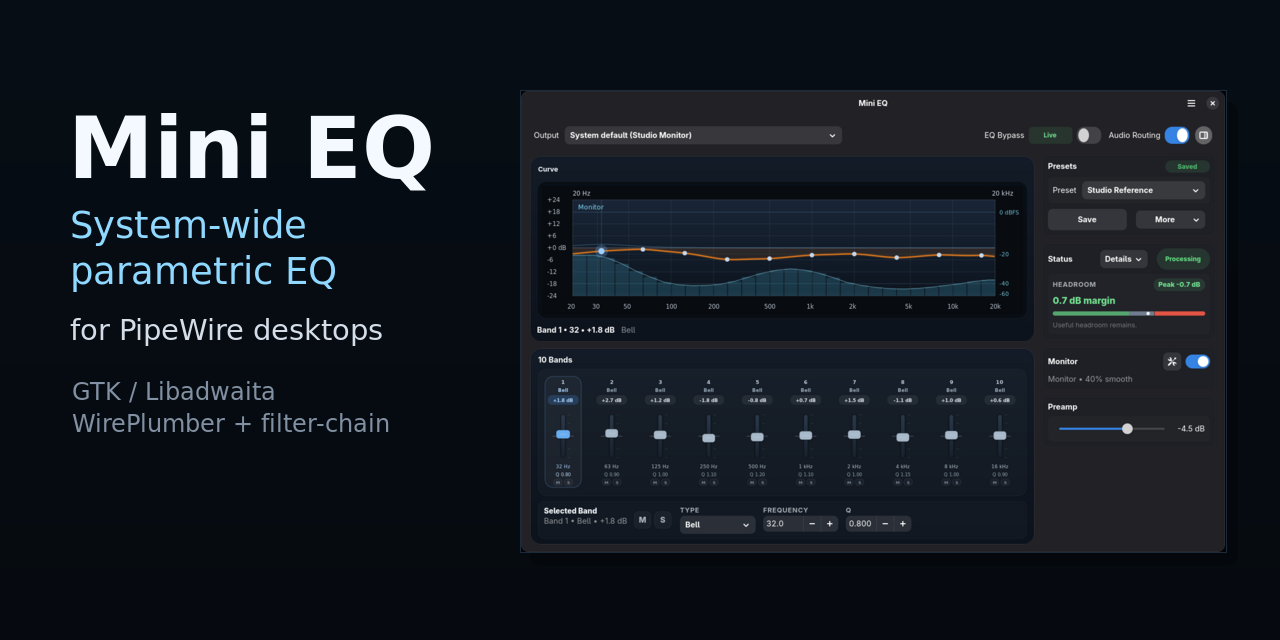
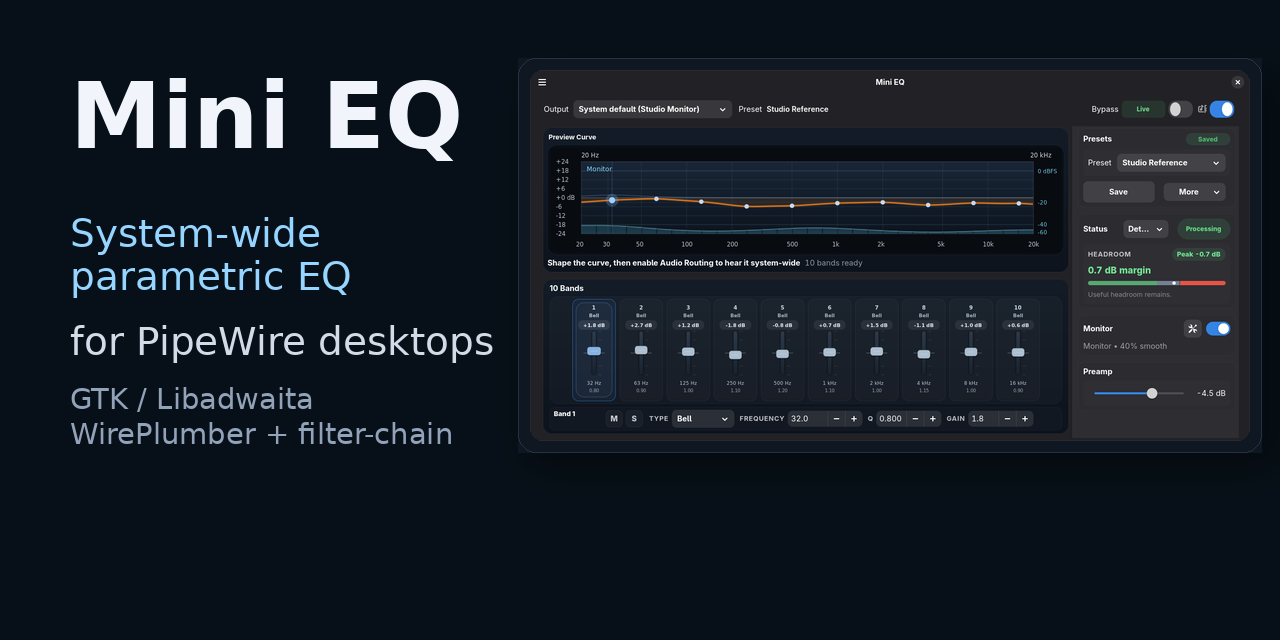
Add social preview rendering tool and update README instructions

diff --git a/tools/render_social_preview.py b/tools/render_social_preview.py
@@ -1,0 +1,129 @@
+from __future__ import annotations
+
+import argparse
+import shutil
+import subprocess
+from pathlib import Path
+
+from PIL import Image, ImageDraw, ImageFilter, ImageFont
+
+CANVAS_SIZE = (1280, 640)
+BACKGROUND = "#071018"
+TITLE = "Mini EQ"
+SUBTITLE_LINES = (
+    "System-wide",
+    "parametric EQ",
+    "for PipeWire desktops",
+)
+FOOTER_LINES = (
+    "GTK / Libadwaita",
+    "WirePlumber + filter-chain",
+)
+
+
+def _font_path(preferred: str) -> str | None:
+    fc_match = shutil.which("fc-match")
+    if fc_match is not None:
+        result = subprocess.run(
+            [fc_match, "-f", "%{file}\n", preferred],
+            check=False,
+            capture_output=True,
+            text=True,
+        )
+        path = result.stdout.strip()
+        if path:
+            return path
+
+    common = (
+        "/usr/share/fonts/truetype/dejavu/DejaVuSans.ttf",
+        "/usr/share/fonts/truetype/dejavu/DejaVuSans-Bold.ttf",
+    )
+    for candidate in common:
+        if Path(candidate).exists():
+            return candidate
+    return None
+
+
+def _load_font(size: int, *, bold: bool = False) -> ImageFont.FreeTypeFont | ImageFont.ImageFont:
+    family = "DejaVu Sans:style=Bold" if bold else "DejaVu Sans"
+    path = _font_path(family)
+    if path is None:
+        return ImageFont.load_default()
+    return ImageFont.truetype(path, size=size)
+
+
+def _fit_screenshot(image: Image.Image, max_size: tuple[int, int]) -> Image.Image:
+    fitted = image.copy()
+    fitted.thumbnail(max_size, Image.Resampling.LANCZOS)
+    return fitted
+
+
+def render_social_preview(screenshot_path: Path, output_path: Path) -> None:
+    canvas = Image.new("RGBA", CANVAS_SIZE, BACKGROUND)
+    draw = ImageDraw.Draw(canvas)
+
+    title_font = _load_font(92, bold=True)
+    subtitle_font = _load_font(39)
+    footer_font = _load_font(29)
+
+    draw.text((70, 62), TITLE, font=title_font, fill="#F1F5FB")
+    draw.text((70, 210), "\n".join(SUBTITLE_LINES[:2]), font=subtitle_font, spacing=6, fill="#95D5FF")
+    draw.text((70, 318), SUBTITLE_LINES[2], font=subtitle_font, fill="#D4DBE8")
+    draw.text((70, 382), "\n".join(FOOTER_LINES), font=footer_font, spacing=8, fill="#92A2B9")
+
+    screenshot = Image.open(screenshot_path).convert("RGBA")
+    screenshot = _fit_screenshot(screenshot, (720, 420))
+
+    frame_padding = 12
+    frame_size = (
+        screenshot.width + frame_padding * 2,
+        screenshot.height + frame_padding * 2,
+    )
+    frame_pos = (518, 58)
+    shadow_offset = (10, 14)
+
+    shadow = Image.new("RGBA", CANVAS_SIZE, (0, 0, 0, 0))
+    shadow_draw = ImageDraw.Draw(shadow)
+    shadow_draw.rounded_rectangle(
+        (
+            frame_pos[0] + shadow_offset[0],
+            frame_pos[1] + shadow_offset[1],
+            frame_pos[0] + frame_size[0] + shadow_offset[0],
+            frame_pos[1] + frame_size[1] + shadow_offset[1],
+        ),
+        radius=18,
+        fill=(0, 0, 0, 110),
+    )
+    shadow = shadow.filter(ImageFilter.GaussianBlur(16))
+    canvas.alpha_composite(shadow)
+
+    frame = Image.new("RGBA", frame_size, "#0F1723")
+    frame_draw = ImageDraw.Draw(frame)
+    frame_draw.rounded_rectangle((0, 0, frame.width - 1, frame.height - 1), radius=18, fill="#0F1723", outline="#253244")
+
+    screenshot_mask = Image.new("L", screenshot.size, 0)
+    mask_draw = ImageDraw.Draw(screenshot_mask)
+    mask_draw.rounded_rectangle((0, 0, screenshot.width - 1, screenshot.height - 1), radius=12, fill=255)
+    frame.paste(screenshot, (frame_padding, frame_padding), screenshot_mask)
+
+    canvas.alpha_composite(frame, frame_pos)
+
+    output_path.parent.mkdir(parents=True, exist_ok=True)
+    canvas.convert("RGB").save(output_path, optimize=True)
+
+
+def main(argv: list[str] | None = None) -> int:
+    parser = argparse.ArgumentParser(description="Render a social preview image from the public Mini EQ screenshot.")
+    parser.add_argument("screenshot", nargs="?", default="docs/screenshots/mini-eq.png", help="Input screenshot path")
+    parser.add_argument("output", nargs="?", default="docs/social-preview.png", help="PNG output path")
+    args = parser.parse_args(argv)
+
+    screenshot_path = Path(args.screenshot).expanduser()
+    output_path = Path(args.output).expanduser()
+    render_social_preview(screenshot_path, output_path)
+    print(f"saved social preview to {output_path}")
+    return 0
+
+
+if __name__ == "__main__":
+    raise SystemExit(main())

diff --git a/docs/screenshots/README.md b/docs/screenshots/README.md
@@ -4,6 +4,7 @@ Generate the public release screenshot with deterministic demo data:
 
 ```bash
 PYTHONPATH=src python3 tools/render_demo_screenshot.py docs/screenshots/mini-eq.png
+python3 tools/render_social_preview.py docs/screenshots/mini-eq.png docs/social-preview.png
 ```
 
 See `../../AGENTS.md` for screenshot privacy rules.
